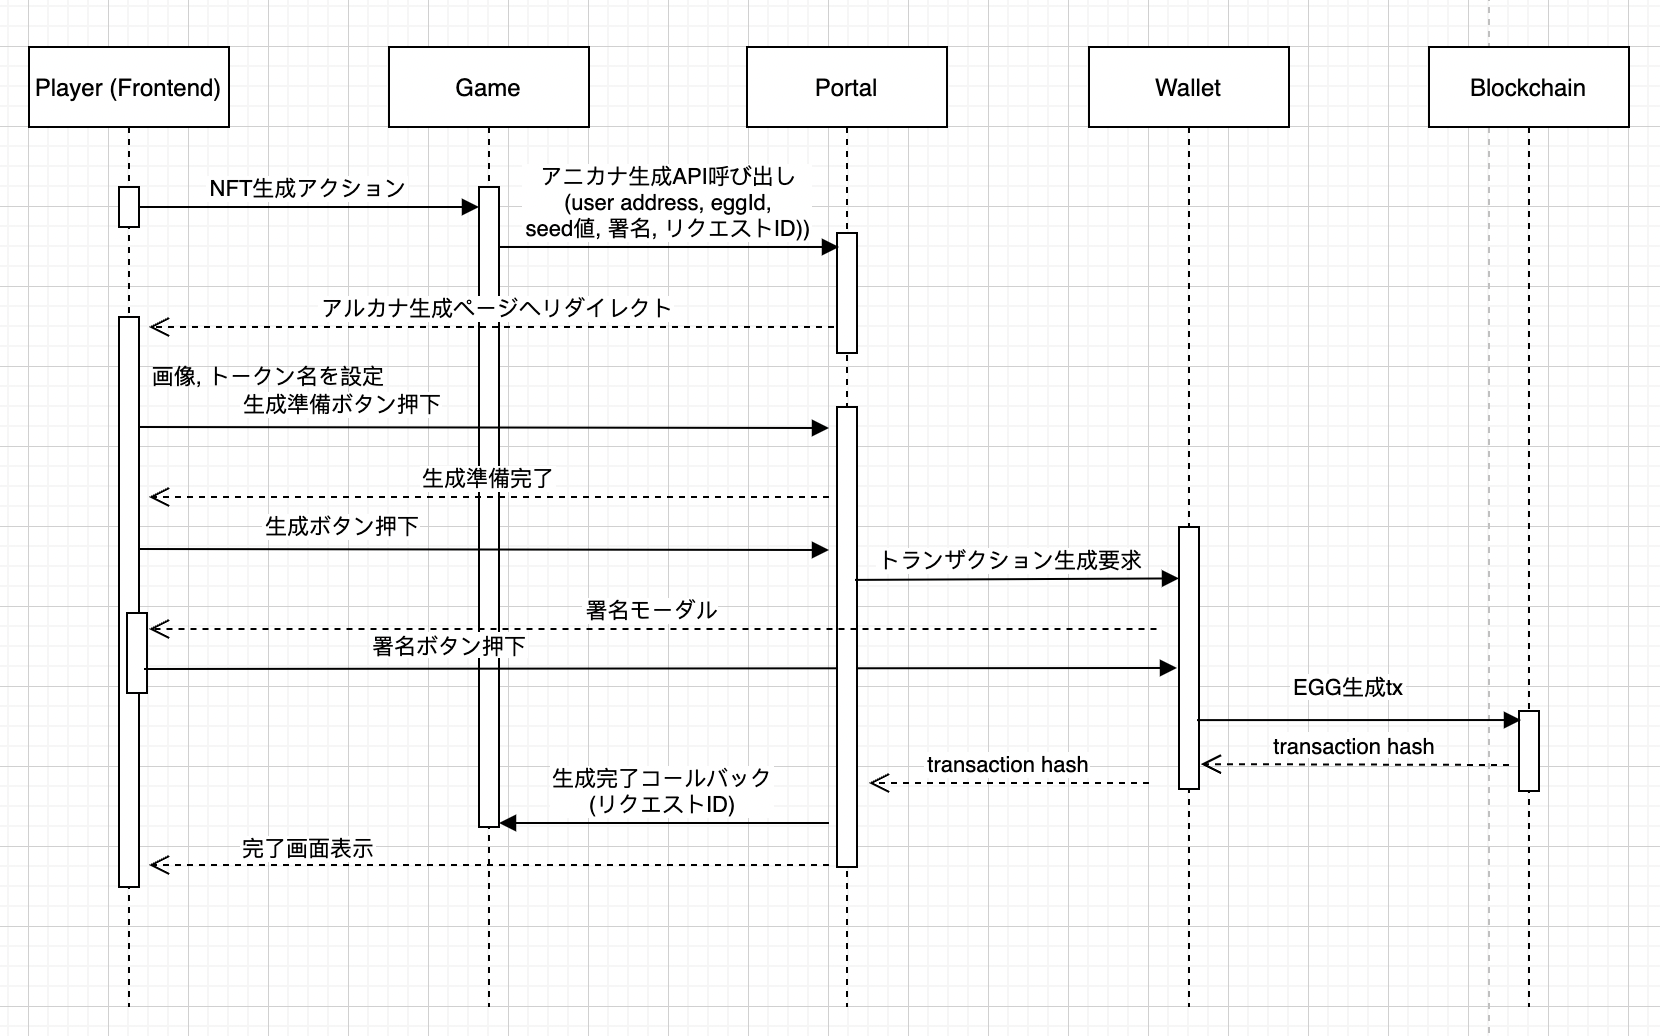
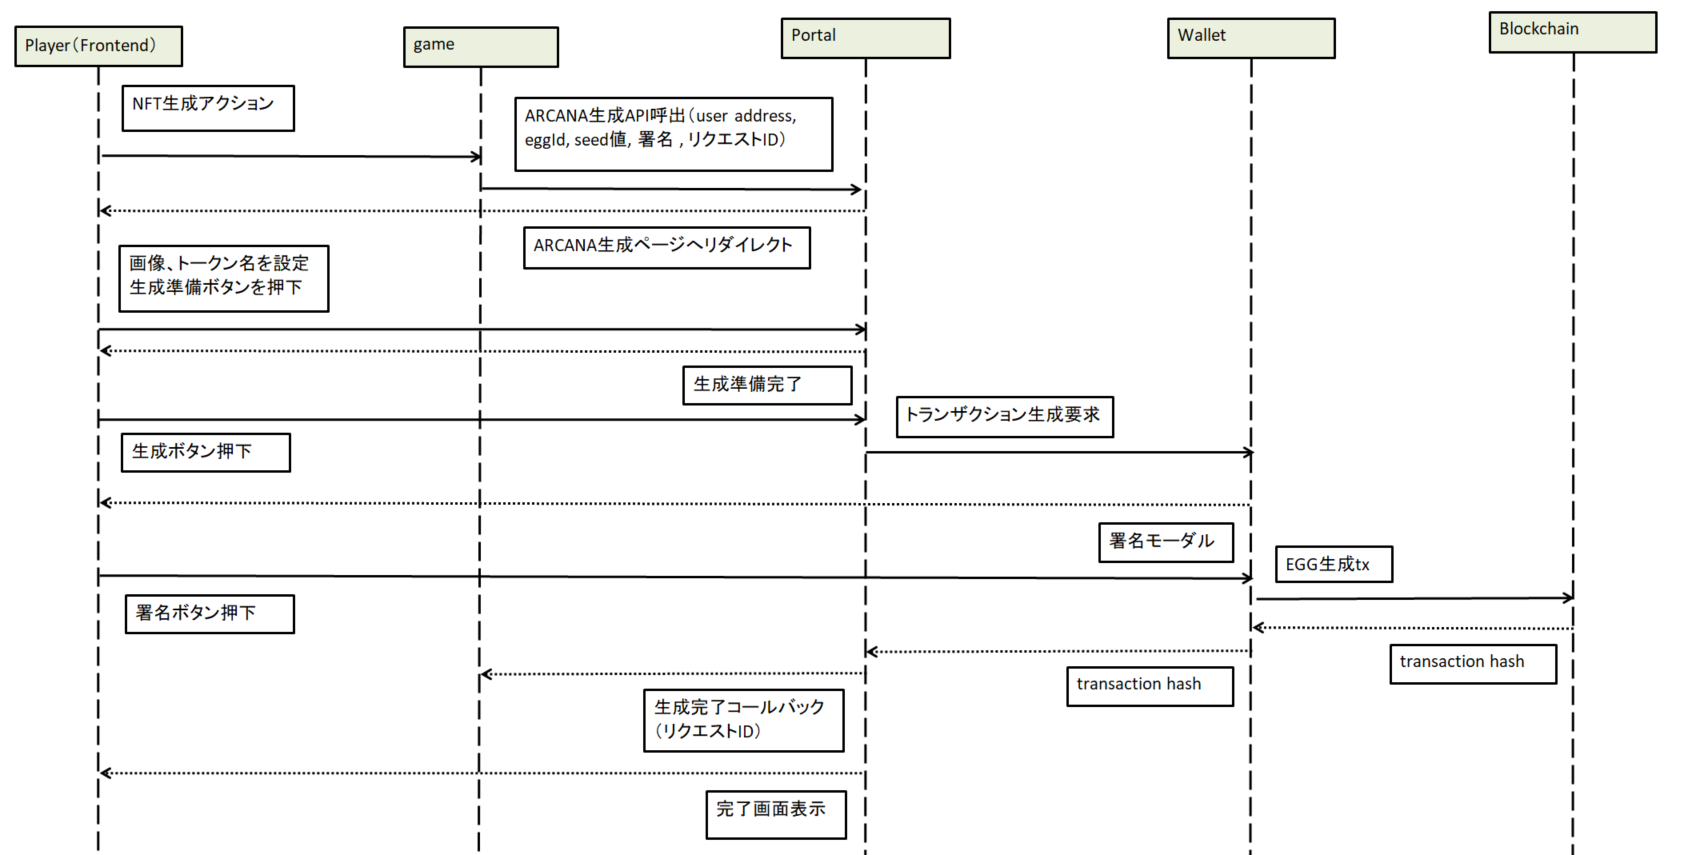
update
[update]テスト環境情報
　誤字修正
[update]ARCANA生成、LEVICA、ウォレット接続
　画像差し替え（文言の統一）

diff --git a/source/game-development/test-environment.rst b/source/game-development/test-environment.rst
@@ -55,6 +55,6 @@
     :align: center
 
     コントラクト, abi
-    EGG, :download:`egg.json<../abi/egg.json>`
+    Egg, :download:`egg.json<../abi/egg.json>`
 
 
